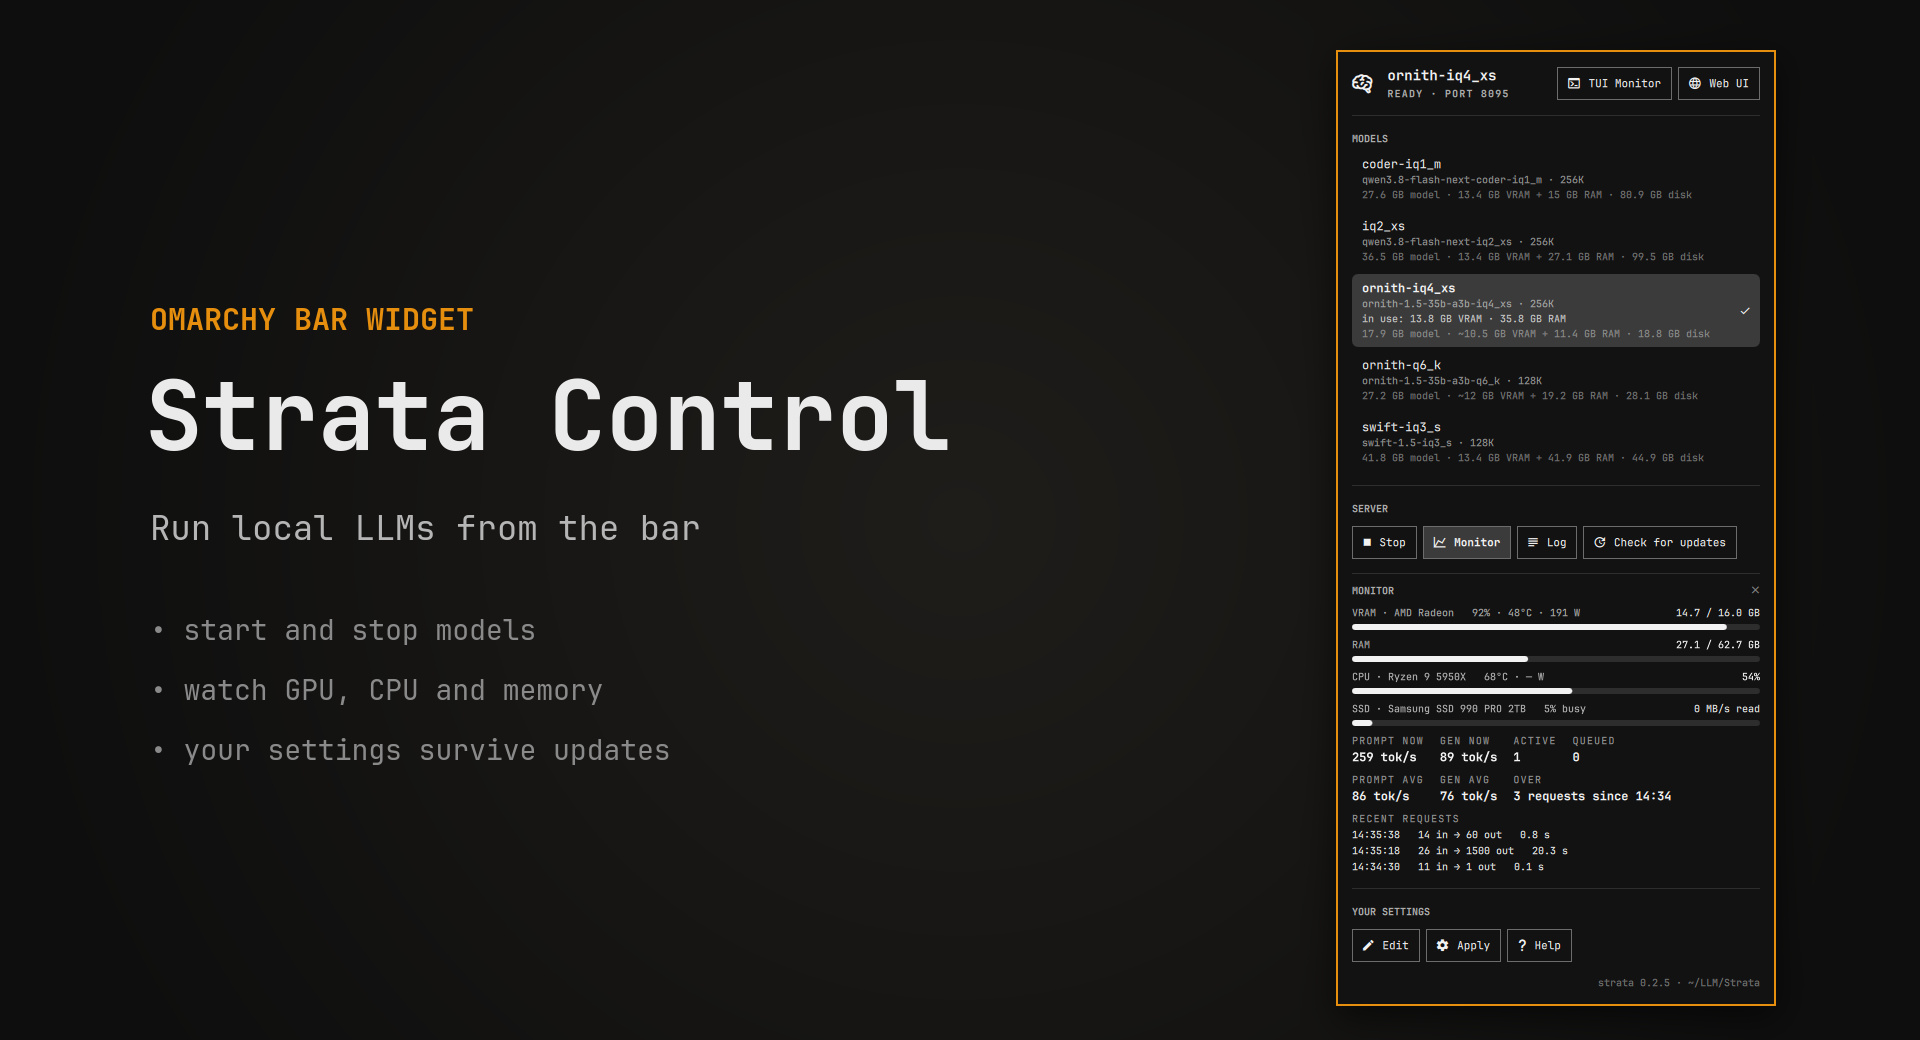
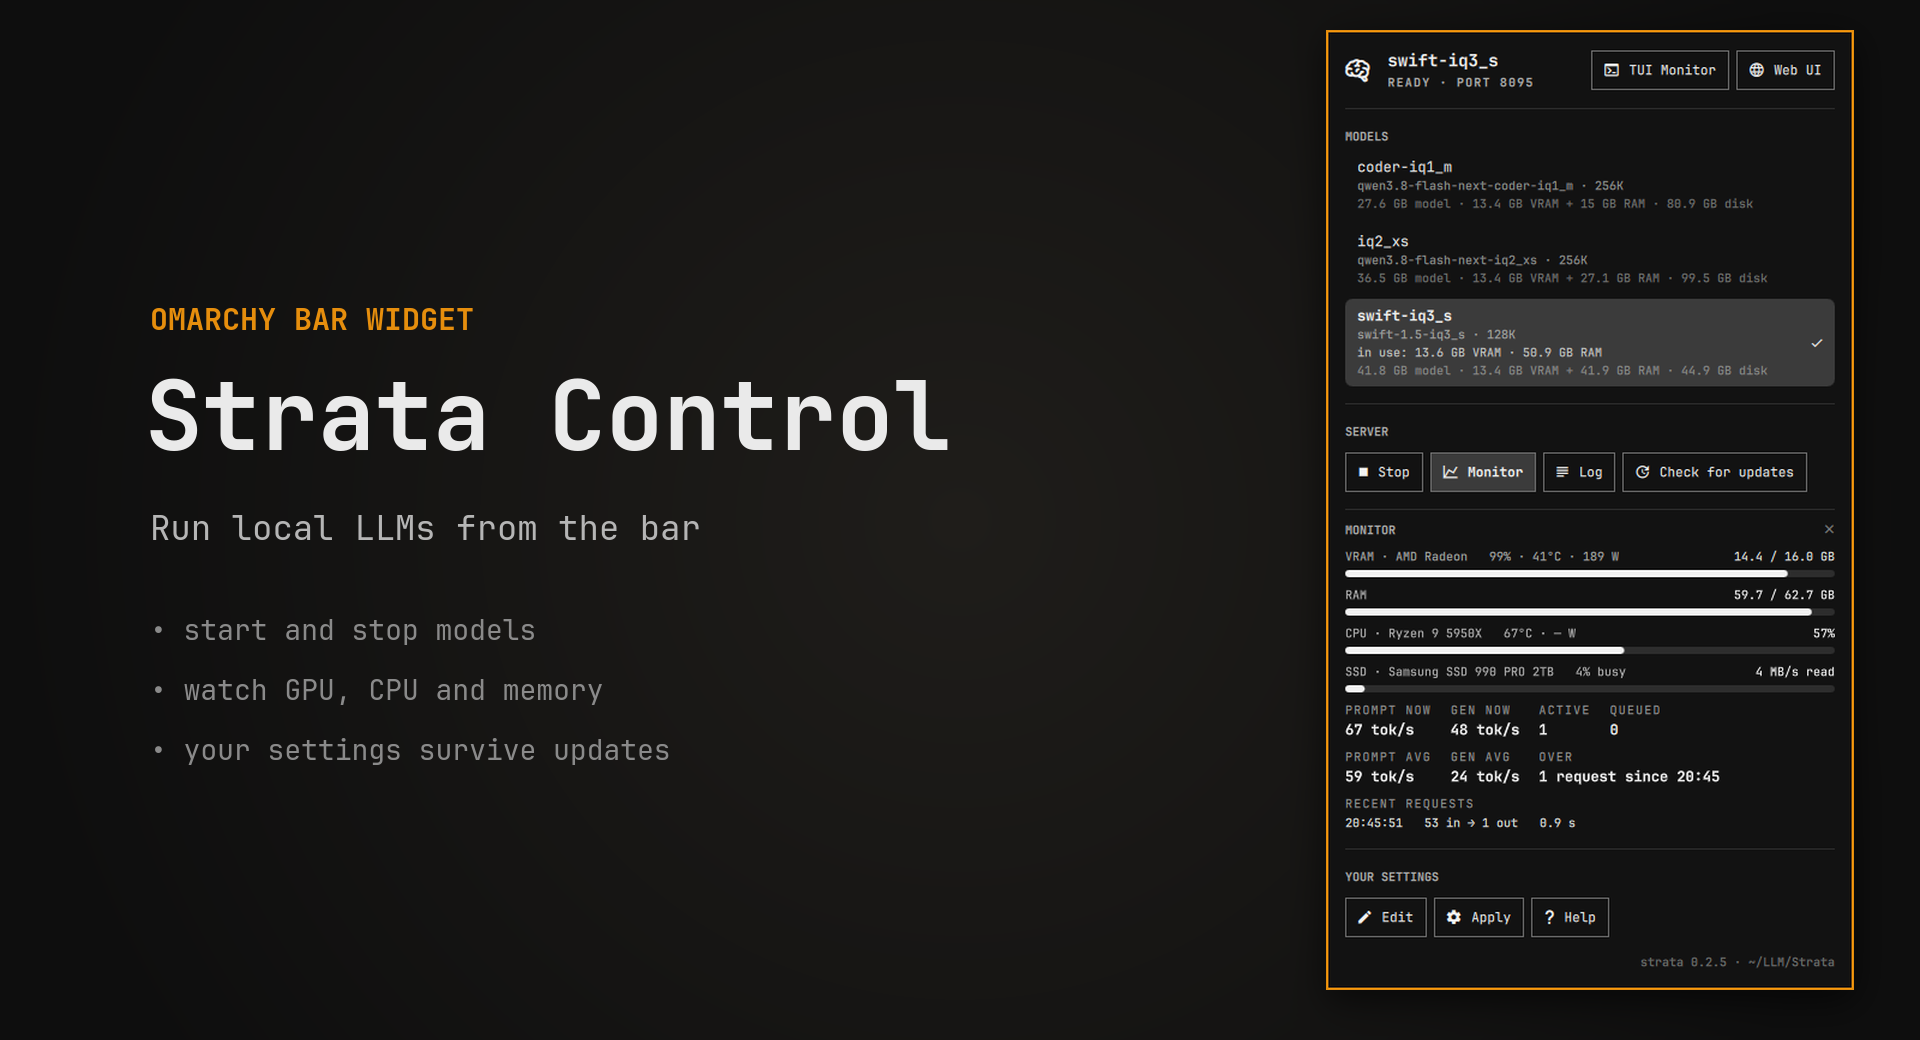
Screenshots with Strata's own models; theme and mini monitor views
The preview and the README now show only the models Strata sets up, and the
examples use them too. New: the popup without and with the mini monitor, and
the popup in four Omarchy themes.

Changed region(s): [[0.6875, 0.0308, 0.9688, 0.9538]]

diff --git a/test_strata_profiles.py b/test_strata_profiles.py
@@ -29,7 +29,7 @@ assert cfg["args"] == ["--vram-reserve-mib", "2700", "--kv", "q8_0"]
 
 # our profiles: prefixed and valid for `strata profile`; a same-named profile pointing elsewhere is not ours
 assert sp.profile_name("swift-iq3_s") == "omarchy-swift-iq3_s"
-assert sp.profile_name("Qwen3.6.UD") == "omarchy-qwen3-6-ud"
+assert sp.profile_name("Swift.IQ3.UD") == "omarchy-swift-iq3-ud"
 out = sp.CONFIGS / "x.json"
 assert sp.ours({"source_config": str(sp.CONFIGS / "y.json")}, out)
 assert not sp.ours({"source_config": "/home/u/Strata/strata-x.json"}, out)

diff --git a/strata-profiles.py b/strata-profiles.py
@@ -24,8 +24,8 @@ patches apply in file order, so put "*" first and specific ids after it:
 
   {
     "*":       {"profile": {"port": 8095}, "env": {"STRATA_HIP_PROMPT_F16": "1"}},
-    "ornith-*": {"args": {"--kv": "q8_0", "--mtp": "1"},
-                 "set": {"sampling": {"temperature": 0.6}}}
+    "coder-*": {"args": {"--max-context": "131072"},
+                "set": {"sampling": {"temperature": 0.6}}}
   }
 
   args     "--flag": "value" sets or appends it, true adds a bare flag, null removes it

diff --git a/README.md b/README.md
@@ -41,6 +41,8 @@ That is all you need. To change how a model runs (context, port, VRAM headroom, 
 
 The bar icon is dim while no model is ready; its tooltip names the model and its state.
 
+![The popup without and with the mini monitor](screenshots/popup-and-monitor.png)
+
 | Part of the popup | What it does |
 |---|---|
 | Header | The served model, its state (starting, ready, stopping) and port. **TUI Monitor** opens `strata monitor` in a terminal; **Web UI** opens the model's chat page in your browser. |
@@ -69,6 +71,10 @@ The running model gets one more line, "in use": what it really takes, measured f
 
 The bar itself checks the state every 30 seconds (setting below).
 
+The popup follows your Omarchy theme:
+
+![The popup in Matte Black, Tokyo Night, Catppuccin Latte and Gruvbox](screenshots/themes.png)
+
 **From the shell**, e.g. for a keybind:
 
 ```sh
@@ -94,8 +100,8 @@ yours in `~/.config/strata/patches.json` and lays them over Strata's configs eve
 
 With an empty file (the default) models run exactly as Strata set them up.
 
-**Example.** Serve every model on port 8095, give all Ornith models a q8_0 cache and their own sampling, and leave
-2 GiB of VRAM free for the desktop:
+**Example.** Serve every model on port 8095, give the Coder models a shorter context and their own sampling, and
+leave 2 GiB of VRAM free for the desktop:
 
 ```json
 {
@@ -105,8 +111,8 @@ With an empty file (the default) models run exactly as Strata set them up.
   "coder-*, swift-*": {
     "args": {"--vram-reserve-mib": "2700"}
   },
-  "ornith-*": {
-    "args": {"--kv": "q8_0", "--expert-vram": "5.5"},
+  "coder-*": {
+    "args": {"--max-context": "131072"},
     "set": {"sampling": {"temperature": 0.6, "top_p": 0.95, "top_k": 20}}
   }
 }
@@ -136,7 +142,7 @@ keep VRAM free:
 - `--vram-reserve-mib N` (most models: Qwen3.8 Coder, Swift, ...): VRAM kept free when the engine sizes its expert
   cache. The engine allocates a few hundred MiB more afterwards (about 650 MiB on a 16 GB card), so for 2 GiB really
   free set about 2700.
-- `--expert-vram GiB` (Qwen3.6-based models such as Ornith, `"arch": "qwen35moe"` in the run config): these ignore the
+- `--expert-vram GiB` (Qwen3.6-35B-A3B models, `"arch": "qwen35moe"` in the run config): these ignore the
   reserve and fill the VRAM. The value caps the experts' share; lower leaves more room but answers slower. The engine
   log (`strata-<id>.log` in the Strata folder) shows the VRAM free before the experts ("... GiB of VRAM free"). For
   N GiB left free: cap = that figure − N − about 0.5 (0.7 with the picture reader on). Check with the mini monitor.
